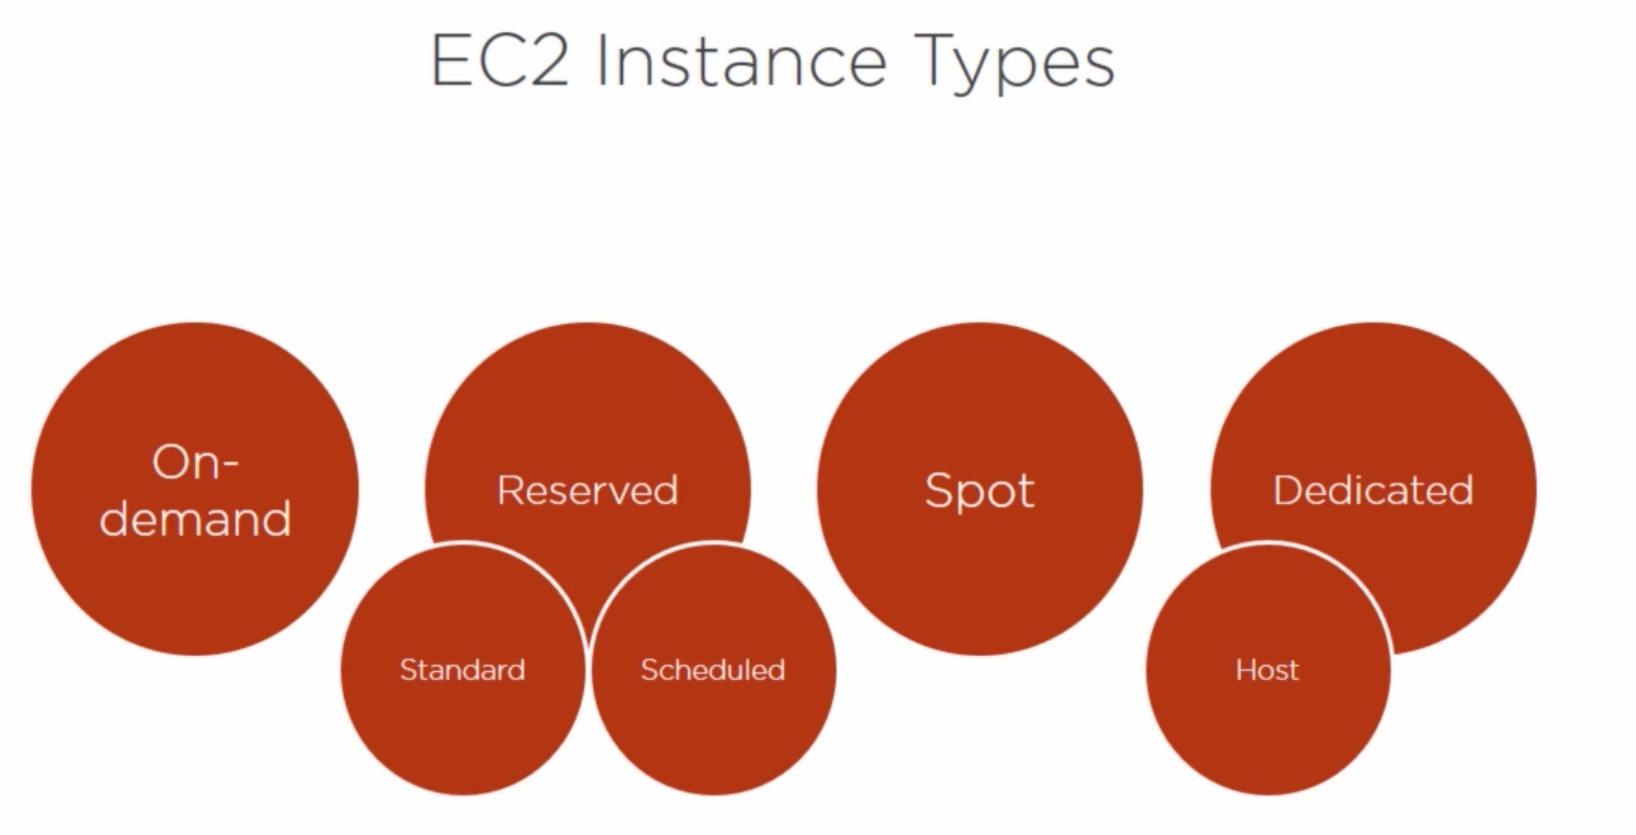
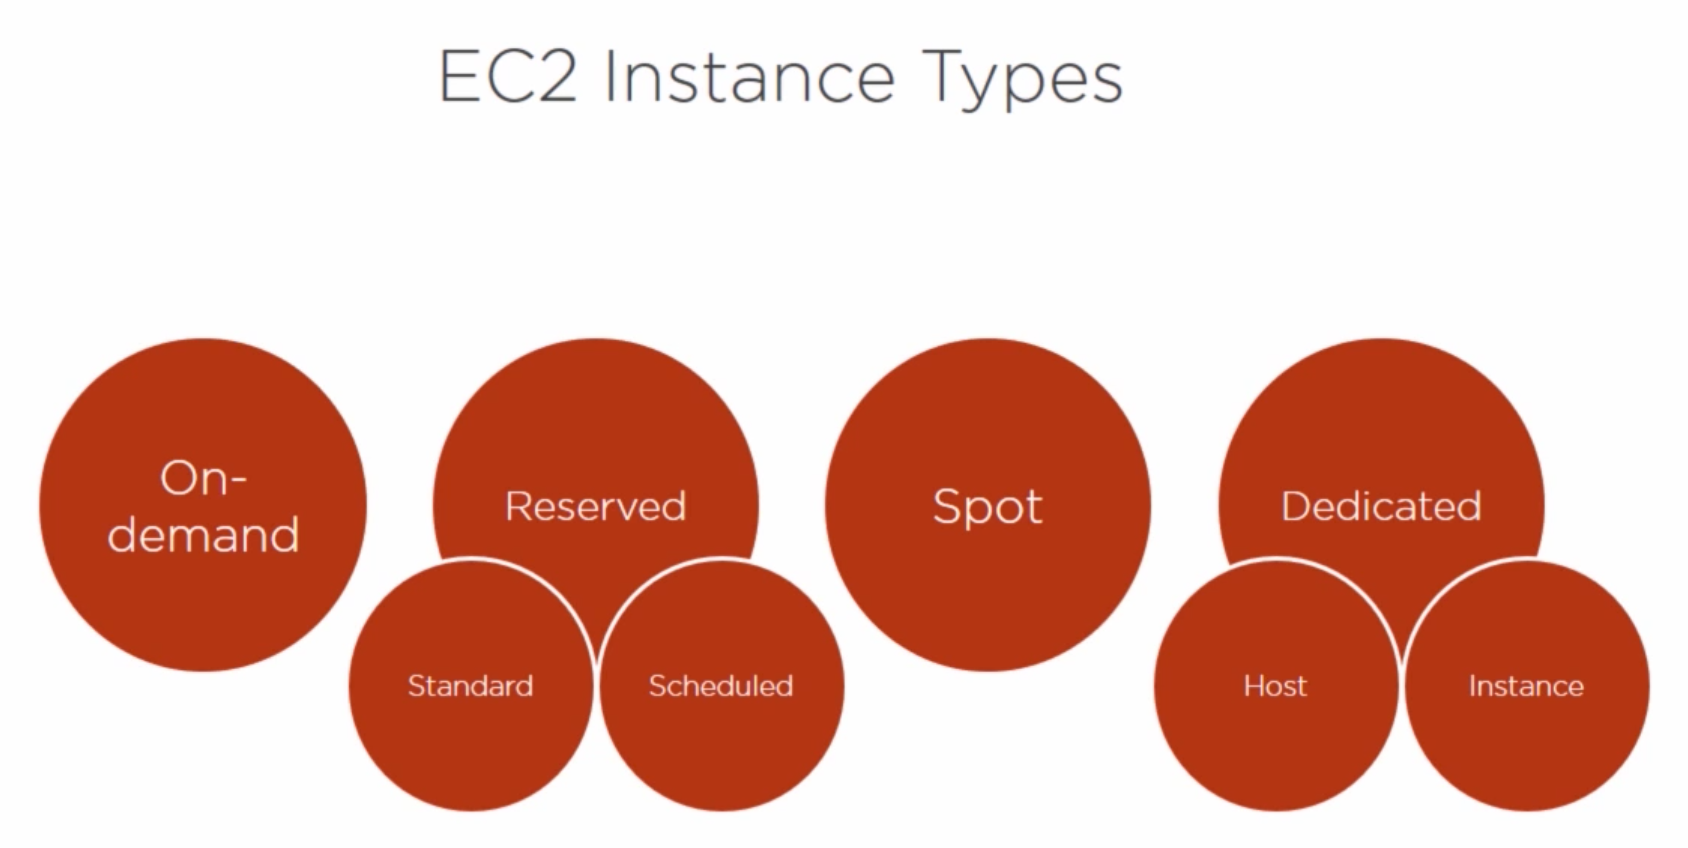
Updates aws/ec2/ec2-instance-types.md
Auto commit by GitBook Editor

diff --git a/aws/ec2/ec2-instance-types.md b/aws/ec2/ec2-instance-types.md
@@ -8,4 +8,4 @@
 * Dedicated:  
     * Dedicated host: for specific computer with the host details 
     * Dedicated instance: lose visibility no details.
-
+![](/assets/EC2 Type.png)
